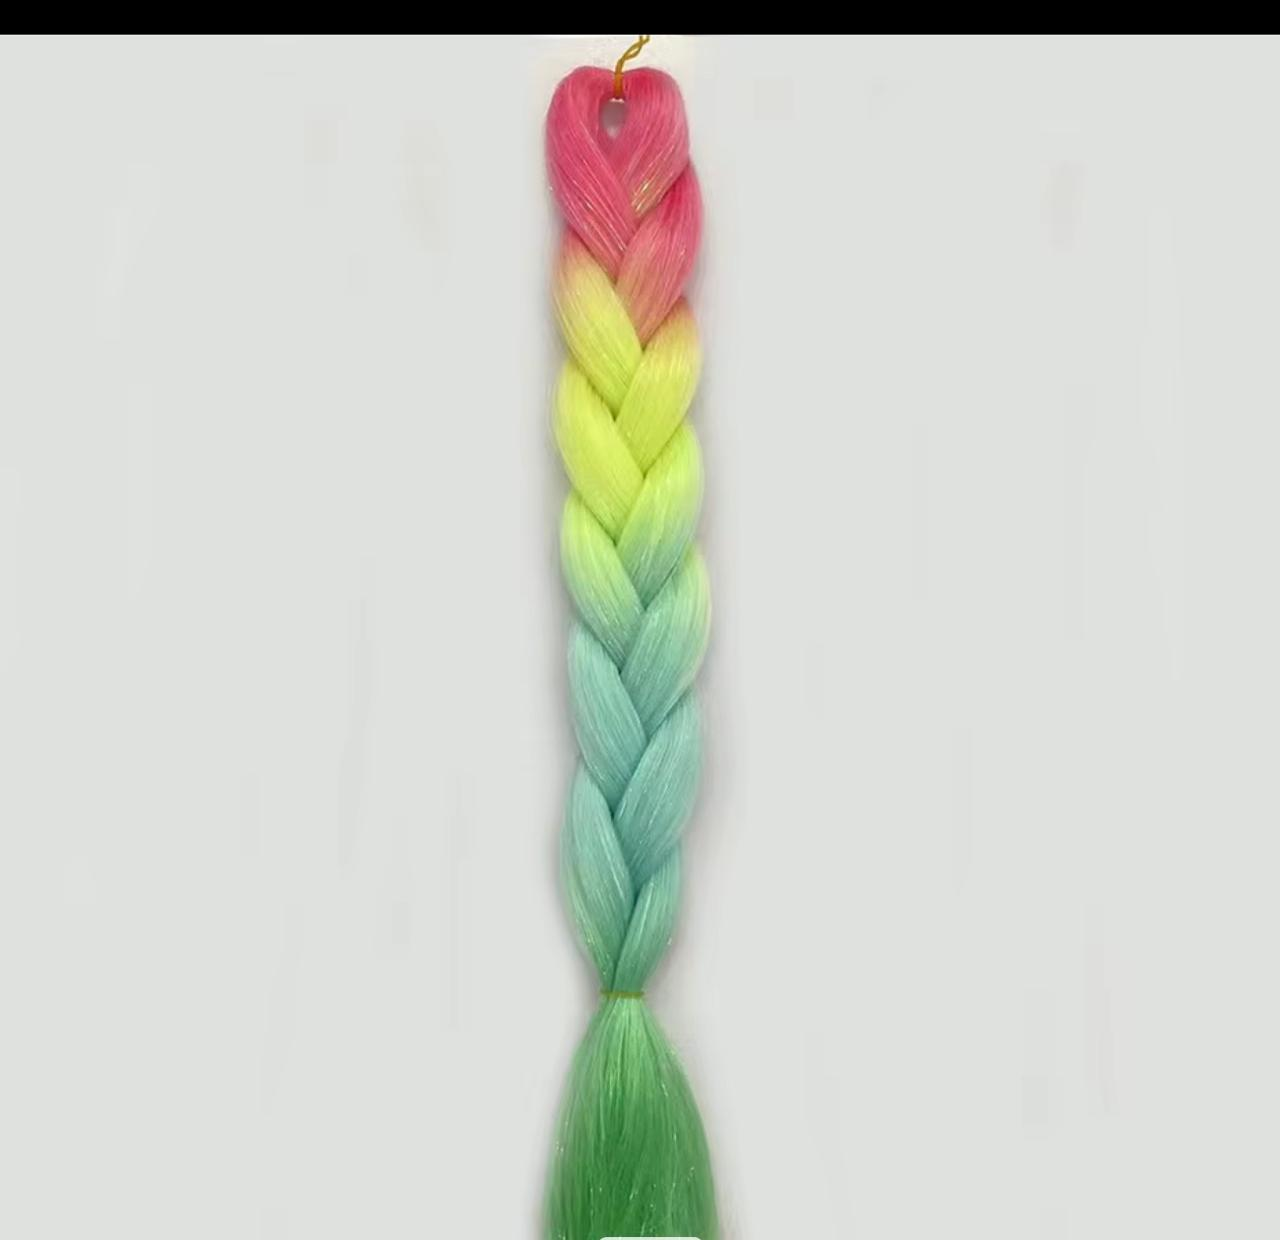
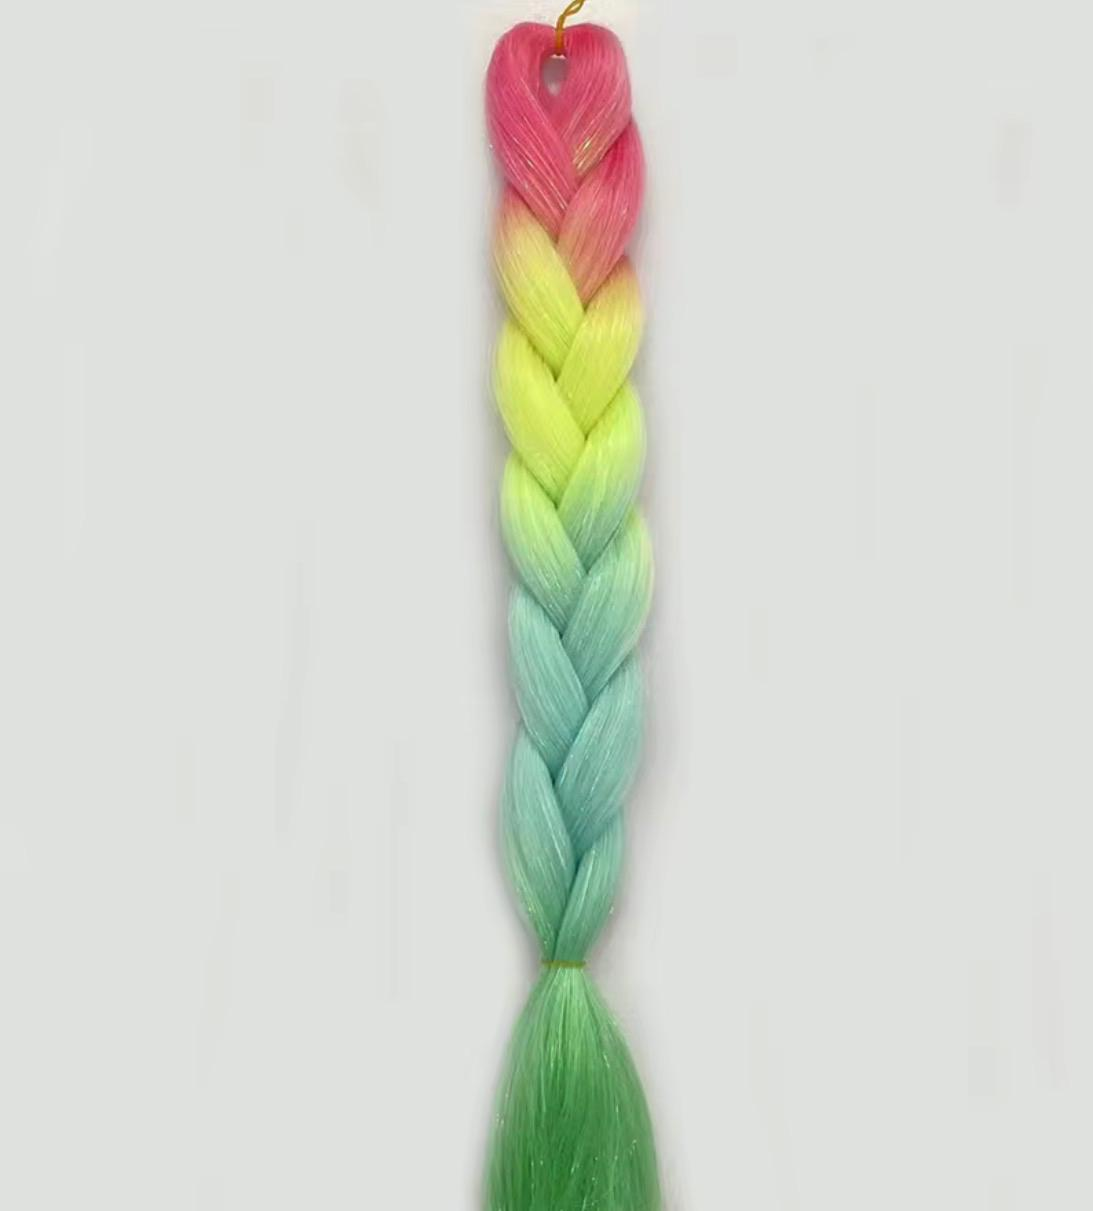
Refactor code structure for improved readability and maintainability

Changed region(s): [[0.0, 0.0, 1.0, 1.0]]

diff --git a/Scripts/products.js b/Scripts/products.js
@@ -1,57 +1,62 @@
 const productsData = [
   {
     name: "Red Sparkle Braid",
-    price: 60,
+    price: 65,
     shinyPrice: 65,
     stock: "in",
     images: [
       "images-icons/Images/Hairpieces/Hred1.jpeg",
       "images-icons/Images/Hairpieces/Hred2.jpeg",
+       "images-icons/Images/Hairpieces/Hred3.jpeg",
     ]
   },
   {
     name: "Black Sparkle Braid",
-    price: 60,
+    price: 65,
     shinyPrice: 65,
     stock: "in",
     images: [
       "images-icons/Images/Hairpieces/H1Black.jpeg",
       "images-icons/Images/Hairpieces/Hblack2.jpeg",
+      "images-icons/Images/Hairpieces/Hblack3.jpeg",
     ]
   },
   {
     name: "Green Sparkle Braid",
-    price: 60,
+    price: 65,
     shinyPrice: 65,
     stock: "in",
     images: [
       "images-icons/Images/Hairpieces/Hgreen1.jpeg",
       "images-icons/Images/Hairpieces/Hgreen2.jpeg",
+       "images-icons/Images/Hairpieces/Hgreen3.jpeg",
     ]
   },
   {
     name: "White Sparkle Braid",
-    price: 60,
+    price: 65,
     shinyPrice: 65,
     stock: "in",
     images: [
       "images-icons/Images/Hairpieces/Hwhite1.jpeg",
       "images-icons/Images/Hairpieces/Hwhite2.jpeg",
+      "images-icons/Images/Hairpieces/Hwhite3.jpeg",
     ]
   },
   {
     name: "Pink-Yellow-Blue Braids",
-    price: 60,
+    price: 65,
     shinyPrice: 65,
     stock: "in",
     images: [
       "images-icons/Images/Hairpieces/pinkyYellowBlue1.jpeg",
       "images-icons/Images/Hairpieces/pinkyYellowBlue2.jpeg",
+      "images-icons/Images/Hairpieces/pinkyYellowBlue3.jpeg",
     ]
   },
   {
     name: "Mixed Colors Braids",
-    price: 60,
+    price: 65,
     shinyPrice: 65,
     stock: "in",
     images: [
@@ -133,7 +138,6 @@ let renderProducts = () => {
 
           <div class="price">
             <span class="normal">R${product.price}</span>
-            <span class="shiny">Sparkle: R${product.shinyPrice}</span>
           </div>
 
           <select class="quantity">
